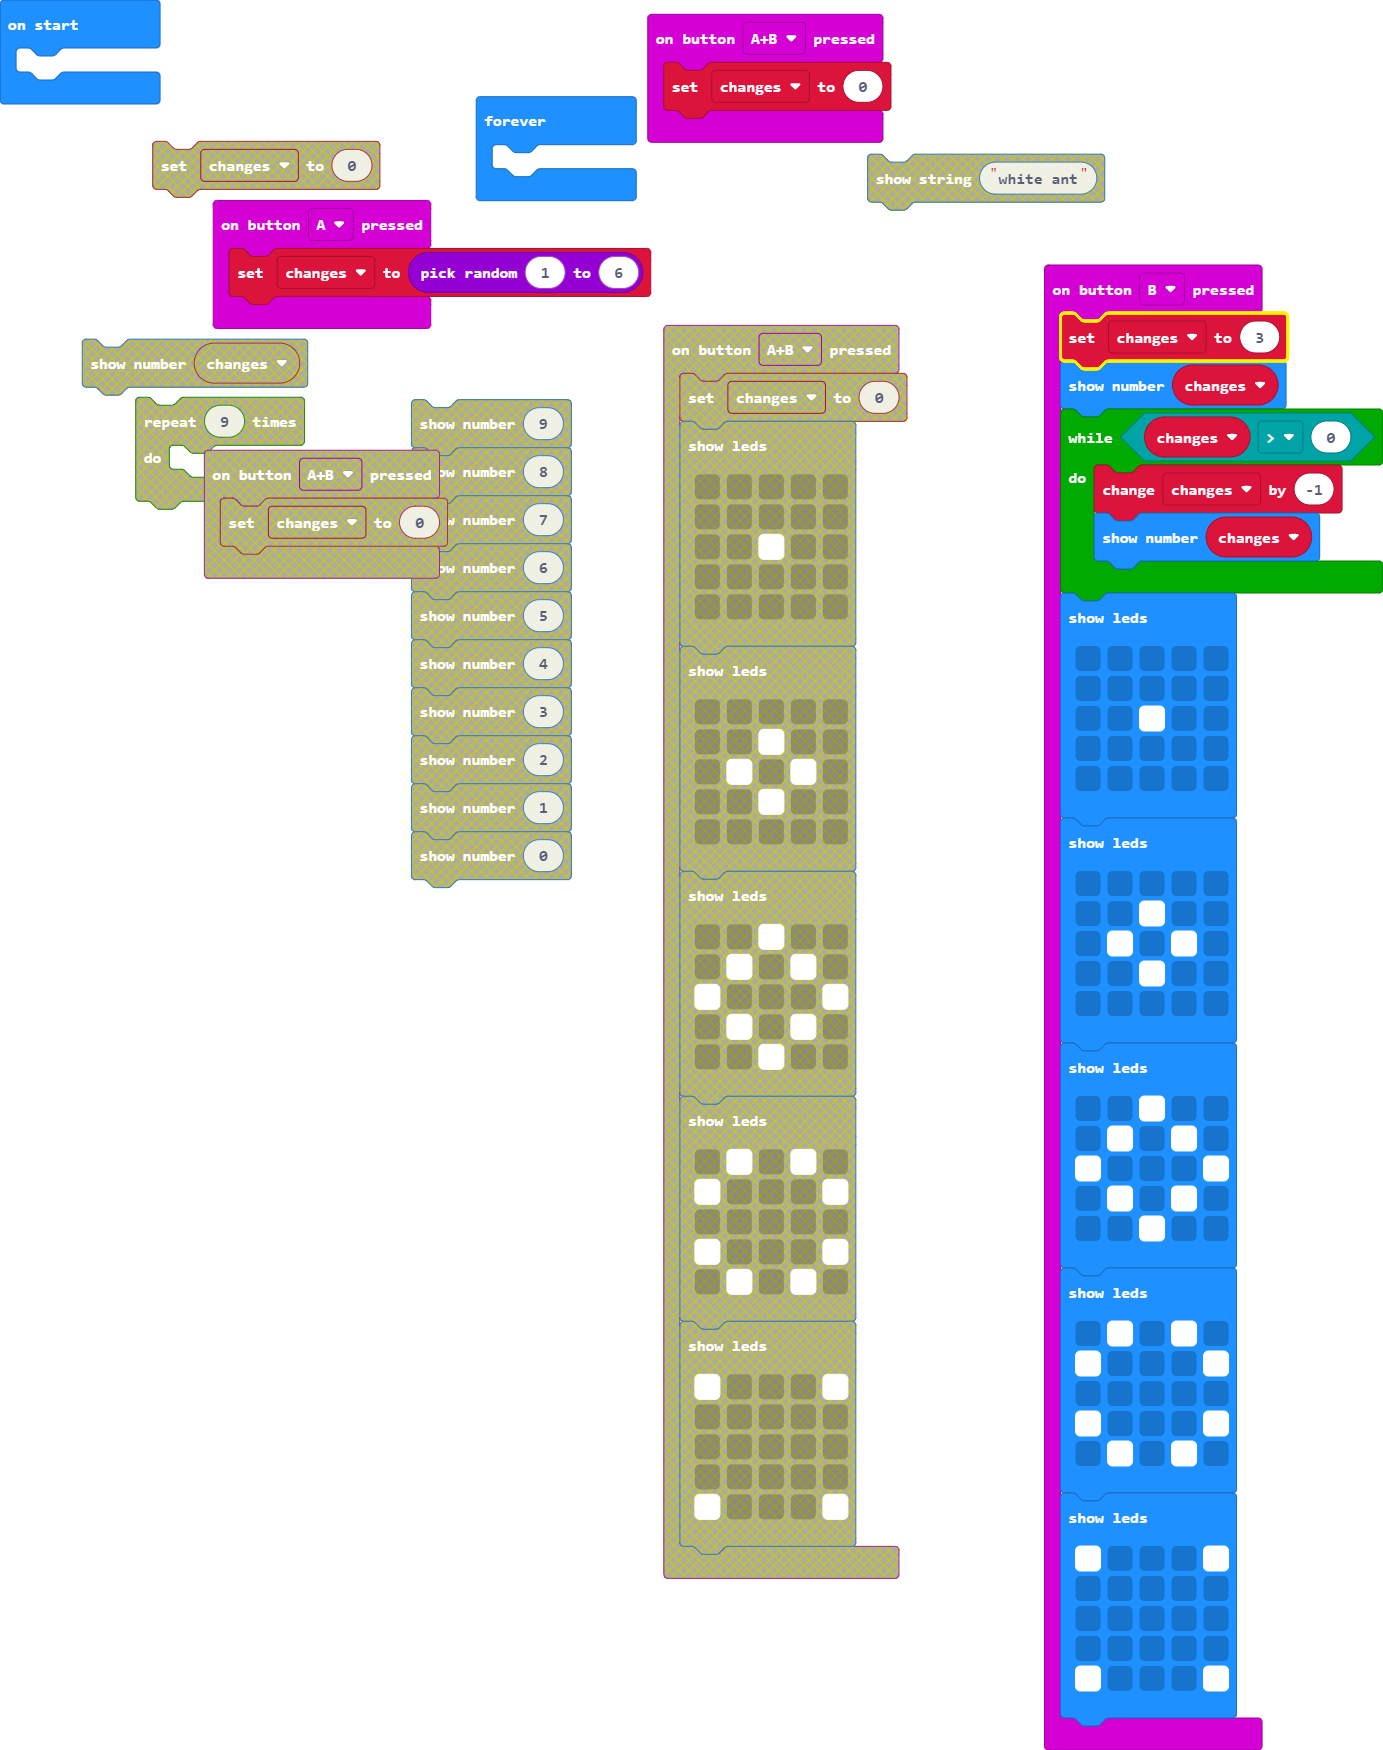
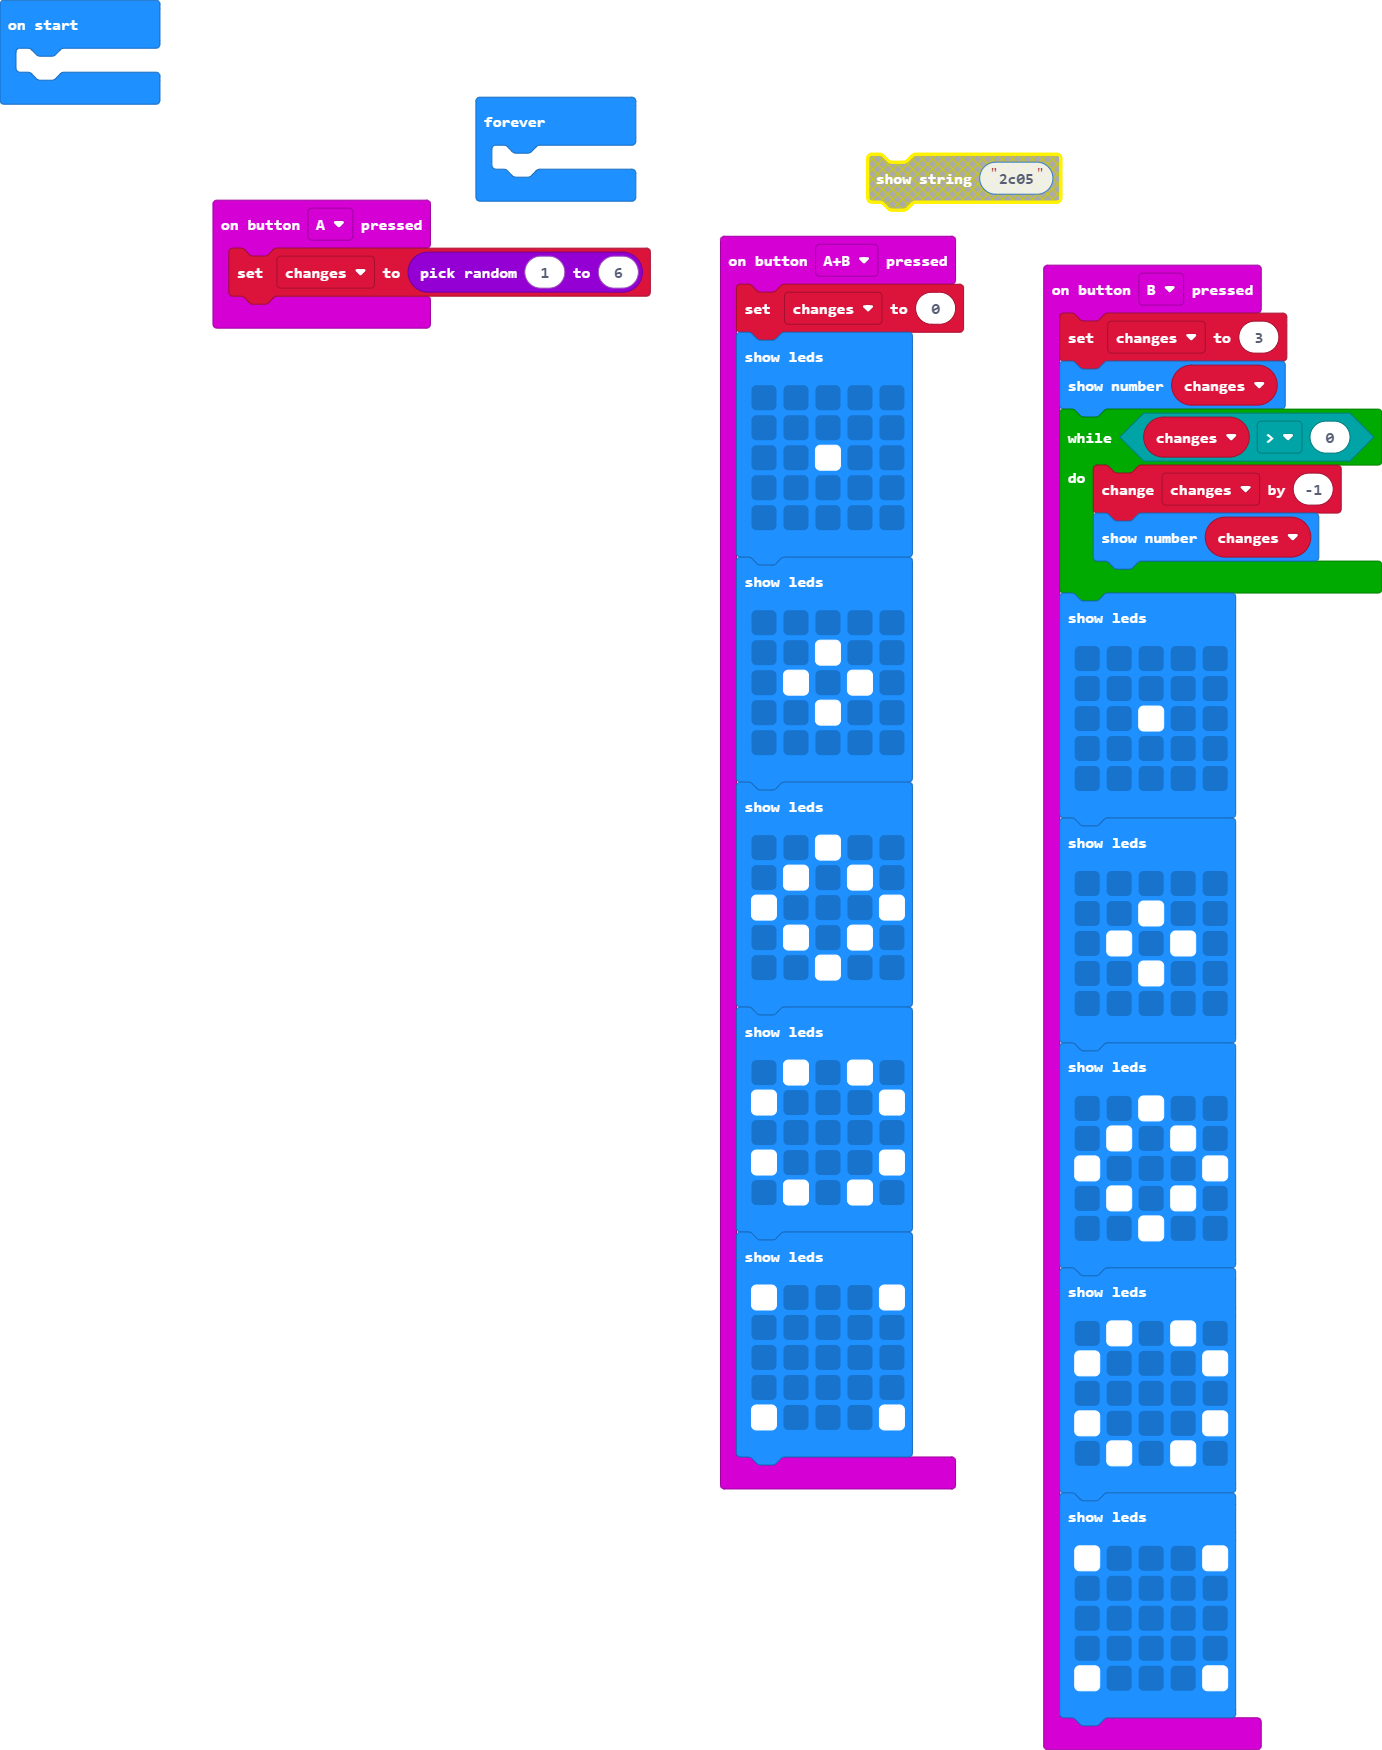
Update main.blocks, main.ts

diff --git a/main.ts b/main.ts
@@ -4,6 +4,41 @@ input.onButtonPressed(Button.A, function () {
 })
 input.onButtonPressed(Button.AB, function () {
     changes = 0
+    basic.showLeds(`
+        . . . . .
+        . . . . .
+        . . # . .
+        . . . . .
+        . . . . .
+        `)
+    basic.showLeds(`
+        . . . . .
+        . . # . .
+        . # . # .
+        . . # . .
+        . . . . .
+        `)
+    basic.showLeds(`
+        . . # . .
+        . # . # .
+        # . . . #
+        . # . # .
+        . . # . .
+        `)
+    basic.showLeds(`
+        . # . # .
+        # . . . #
+        . . . . .
+        # . . . #
+        . # . # .
+        `)
+    basic.showLeds(`
+        # . . . #
+        . . . . .
+        . . . . .
+        . . . . .
+        # . . . #
+        `)
 })
 input.onButtonPressed(Button.B, function () {
     changes = 3
